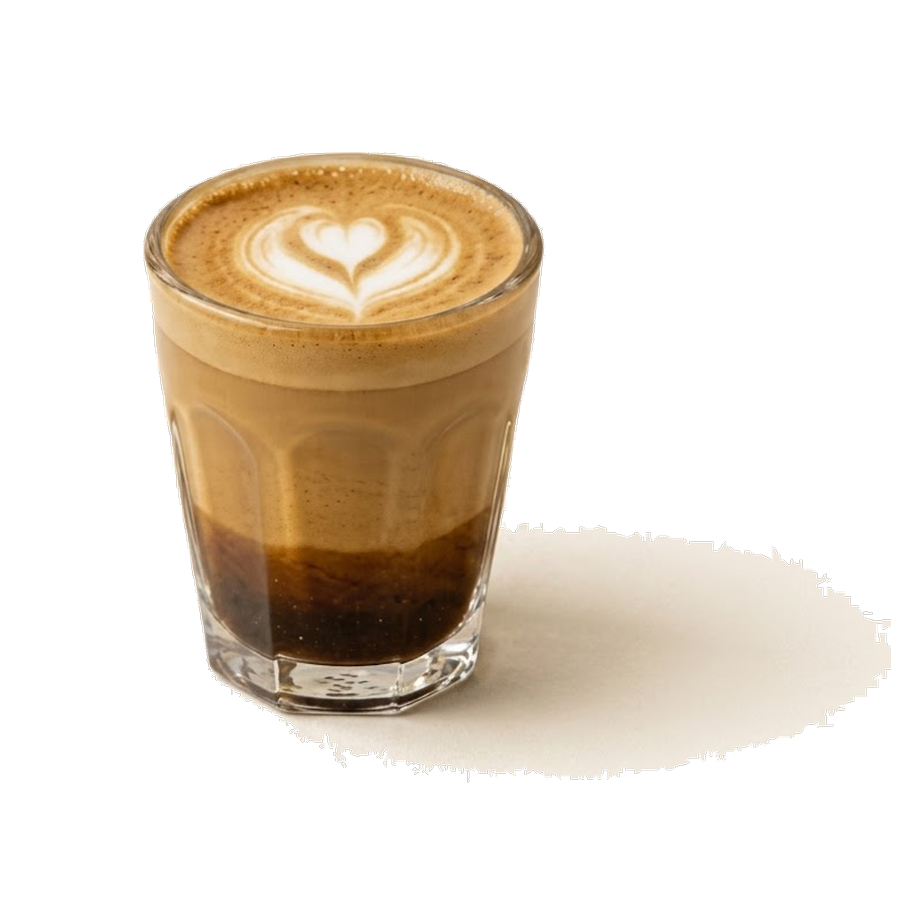
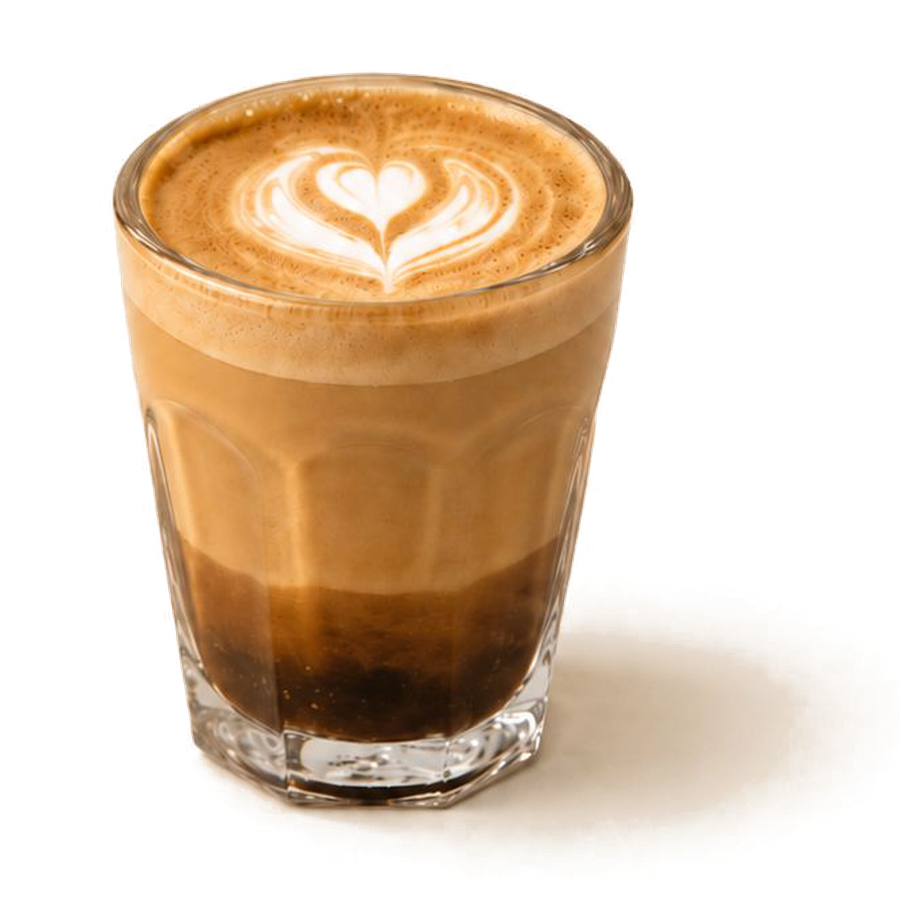
Cortado: update photo, normalized centred + sized to match other coffees
New source photo run through the coffee flood-fill/normalize pipeline: solid glass silhouette (latte-art heart preserved), soft shadow kept, glass centred and scaled to 84% longest side like espresso/cappuccino. Cache-bust v12 -> v13.

diff --git a/data.js b/data.js
@@ -58,7 +58,7 @@ window.MENU = [
         allergens: [], nutrition: { kj: 20, kcal: 5, fat: 0, satFat: 0, carbs: 1, sugars: 0, fibre: 0, protein: 0, sodium: 5 } },
       { name: 'Americano',   ingr: 'espresso, hot water',        price: 3.00, color: '#3D2817', img: 'assets/drinks/coffee-americano.png?v=4',
         allergens: [], nutrition: { kj: 20, kcal: 5, fat: 0, satFat: 0, carbs: 1, sugars: 0, fibre: 0, protein: 0, sodium: 8 } },
-      { name: 'Cortado',     ingr: 'espresso, warm milk',        price: 3.00, color: '#A07856', img: 'assets/drinks/coffee-cortado.png?v=12',
+      { name: 'Cortado',     ingr: 'espresso, warm milk',        price: 3.00, color: '#A07856', img: 'assets/drinks/coffee-cortado.png?v=13',
         allergens: ['Milk'], nutrition: { kj: 210, kcal: 50, fat: 2.5, satFat: 1.5, carbs: 4, sugars: 4, fibre: 0, protein: 3, sodium: 40 } },
       { name: 'Flat White',  ingr: 'double ristretto, micro-foam', price: 3.50, color: '#B89373', img: 'assets/drinks/coffee-flat-white.png?v=11',
         allergens: ['Milk'], nutrition: { kj: 460, kcal: 110, fat: 5, satFat: 3, carbs: 9, sugars: 9, fibre: 0, protein: 6, sodium: 85 } },
